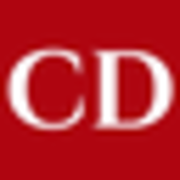
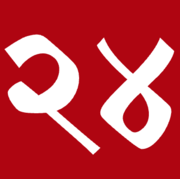
feat: config

diff --git a/src/app/categories/[slug]/page.tsx b/src/app/categories/[slug]/page.tsx
@@ -1,15 +1,15 @@
-import Image from "next/image";
-import Link from "next/link";
-import { Metadata } from "next";
-import {
-  getCategoryBySlug,
-  getArticlesByCategory,
-  getAllArticlesPaginated,
-} from "../../lib/api";
-import { Category, Article } from "../../types";
 import formatDate from "@/app/lib/transform-date";
 import { CalendarIcon, ClockIcon } from "@heroicons/react/24/outline";
 import { ChevronLeftIcon, ChevronRightIcon } from "@heroicons/react/24/solid";
+import { Metadata } from "next";
+import Image from "next/image";
+import Link from "next/link";
+import {
+  getAllArticlesPaginated,
+  getArticlesByCategory,
+  getCategoryBySlug,
+} from "../../lib/api";
+import { Category } from "../../types";
 
 type Props = {
   params: Promise<{ slug: string }>;
@@ -23,15 +23,13 @@ export async function generateMetadata({ params }: Props): Promise<Metadata> {
   // Special case for tajya-batmya
   if (slug === "tajya-batmya") {
     return {
-      title: "Marathi News - The Civic Diary",
-      description:
-        "Browse all the latest Marathi news articles on The Civic Diary.",
+      title: "Marathi News - Batmi24",
+      description: "Browse all the latest Marathi news articles on Batmi24.",
       keywords:
         "marathi news, articles, latest news, civic engagement, marathi",
       openGraph: {
-        title: "Marathi News - The Civic Diary",
-        description:
-          "Browse all the latest Marathi news articles on The Civic Diary.",
+        title: "Marathi News - Batmi24",
+        description: "Browse all the latest Marathi news articles on Batmi24.",
       },
     };
   }
@@ -40,22 +38,22 @@ export async function generateMetadata({ params }: Props): Promise<Metadata> {
 
   if (!category) {
     return {
-      title: "Category Not Found - The Civic Diary",
+      title: "Category Not Found - Batmi24",
       description: "The requested category could not be found.",
     };
   }
 
   return {
-    title: `${category.name} - The Civic Diary`,
+    title: `${category.name} - Batmi24`,
     description:
       category.description ||
-      `Browse all articles in the ${category.name} category on The Civic Diary.`,
+      `Browse all articles in the ${category.name} category on Batmi24.`,
     keywords: `${category.name.toLowerCase()}, articles, news, civic engagement, ${category.name.toLowerCase()} news`,
     openGraph: {
-      title: `${category.name} - The Civic Diary`,
+      title: `${category.name} - Batmi24`,
       description:
         category.description ||
-        `Browse all articles in the ${category.name} category on The Civic Diary.`,
+        `Browse all articles in the ${category.name} category on Batmi24.`,
     },
   };
 }

diff --git a/src/app/articles/[slug]/page.tsx b/src/app/articles/[slug]/page.tsx
@@ -1,13 +1,12 @@
-import Image from "next/image";
-import Link from "next/link";
-import { Metadata } from "next";
-import { getArticleBySlug, getArticles } from "../../lib/api";
-import { Article } from "../../types";
-import ArticleJsonLd from "../../components/ArticleJsonLd";
 import formatDate from "@/app/lib/transform-date";
 import { CalendarIcon, ClockIcon } from "@heroicons/react/24/outline";
-import ShareButtons from "../../components/ShareButtons";
+import { Metadata } from "next";
+import Link from "next/link";
 import ArticleImage from "../../components/ArticleImage";
+import ArticleJsonLd from "../../components/ArticleJsonLd";
+import ShareButtons from "../../components/ShareButtons";
+import { getArticleBySlug, getArticles } from "../../lib/api";
+import { Article } from "../../types";
 
 type Props = {
   params: Promise<{ slug: string }>;
@@ -20,13 +19,13 @@ export async function generateMetadata({ params }: Props): Promise<Metadata> {
 
   if (!article) {
     return {
-      title: "Article Not Found - The Civic Diary",
+      title: "Article Not Found - Batmi24",
       description: "The requested article could not be found.",
     };
   }
 
   return {
-    title: article.meta_title || `${article.title} - The Civic Diary`,
+    title: article.meta_title || `${article.title} - Batmi24`,
     description: article.meta_description || article.excerpt,
     keywords: article.category
       ? `${article.category.name.toLowerCase()}, ${article.title.toLowerCase()}, civic engagement, news, article`
@@ -85,7 +84,7 @@ export default async function ArticlePage({ params }: Props) {
     );
   }
 
-  const articleUrl = `https://thecivicdiary.com/articles/${article.slug}`;
+  const articleUrl = `https://batmi24.com/articles/${article.slug}`;
 
   return (
     <>
@@ -99,8 +98,8 @@ export default async function ArticlePage({ params }: Props) {
         )}
         <meta itemProp="datePublished" content={article.published_at} />
         <meta itemProp="dateModified" content={article.published_at} />
-        <meta itemProp="author" content="The Civic Diary" />
-        <meta itemProp="publisher" content="The Civic Diary" />
+        <meta itemProp="author" content="Batmi24" />
+        <meta itemProp="publisher" content="Batmi24" />
 
         <div className="mb-8">
           <nav

diff --git a/src/app/layout.tsx b/src/app/layout.tsx
@@ -13,27 +13,24 @@ export const viewport: Viewport = {
 };
 
 export const metadata: Metadata = {
-  metadataBase: new URL("https://thecivicdiary.com"),
-  title: "The Civic Diary - News and Articles",
+  metadataBase: new URL("https://batmi24.com"),
+  title: "Batmi24 - News and Articles",
   description:
     "Stay informed with the latest news, insights, and articles on civic matters and community initiatives.",
   keywords: "news, articles, civic engagement, community, journalism",
-  authors: [{ name: "The Civic Diary Team" }],
+  authors: [{ name: "Batmi24 Team" }],
   robots: "index, follow",
   icons: {
-    icon: [
-      { url: "/icon.png" },
-      { url: "/brand/the-civic-diary-small-red.jpeg" },
-    ],
+    icon: [{ url: "/icon.png" }, { url: "/brand/batmi-24-square-red.png" }],
     apple: "/apple-icon.png",
     shortcut: "/icon.png",
   },
   openGraph: {
     type: "website",
     locale: "en_US",
-    url: "https://thecivicdiary.com",
-    siteName: "The Civic Diary",
-    title: "The Civic Diary - Talks Straight, No Filler, Just Facts",
+    url: "https://batmi24.com",
+    siteName: "Batmi24",
+    title: "Batmi24 - Talks Straight, No Filler, Just Facts",
     description:
       "Stay informed with the latest news, insights, and articles on civic matters and community initiatives.",
     images: [
@@ -41,13 +38,13 @@ export const metadata: Metadata = {
         url: "/og-image.jpg",
         width: 1200,
         height: 630,
-        alt: "The Civic Diary",
+        alt: "Batmi24",
       },
     ],
   },
   twitter: {
     card: "summary_large_image",
-    title: "The Civic Diary - Talks Straight, No Filler, Just Facts",
+    title: "Batmi24 - Talks Straight, No Filler, Just Facts",
     description:
       "Stay informed with the latest news, insights, and articles on civic matters and community initiatives.",
     images: ["/twitter-image.jpg"],

diff --git a/src/app/components/Footer.tsx b/src/app/components/Footer.tsx
@@ -11,22 +11,22 @@ export default async function Footer() {
       <div className="container mx-auto px-4">
         <div className="grid grid-cols-1 md:grid-cols-2 lg:grid-cols-4 gap-8">
           <div>
-            <div className="mb-4">
+            <div className="">
               <Image
-                src="/brand/the-civic-diary-long-white.jpeg"
-                alt="The Civic Diary"
+                src="/brand/batmi-24-long-white.png"
+                alt="Batmi24"
                 width={200}
                 height={60}
-                className="object-contain rounded-lg"
+                className="object-contain rounded-lg bg-white"
+                style={{ padding: "1rem" }}
               />
             </div>
-            <p className="text-sm mb-4">
+            <p className="text-sm mb-4 py-2">
               Delivering insightful news and articles on civic matters and
               community initiatives.
             </p>
             <p>
-              &copy; {new Date().getFullYear()} The Civic Diary. All rights
-              reserved.
+              &copy; {new Date().getFullYear()} Batmi24. All rights reserved.
             </p>
           </div>
           <div>

diff --git a/src/app/components/Header.tsx b/src/app/components/Header.tsx
@@ -22,11 +22,18 @@ async function Header() {
       <div className="bg-white py-4">
         <div className="max-w-[1200px] mx-auto px-4">
           <div className="flex justify-center">
-            <Link href="/">
+            <Link
+              href="/"
+              style={{
+                backgroundColor: "#af0000",
+                padding: "1rem 1rem",
+                borderRadius: "0.5rem",
+              }}
+            >
               <Image
-                src="/brand/the-civic-diary-long-red.jpeg"
-                alt="The Civic Diary"
-                width={650}
+                src="/brand/batmi-24-long-red.png"
+                alt="Batmi24"
+                width={320}
                 height={130}
                 className="h-auto rounded-lg"
                 priority

diff --git a/src/app/sitemap.ts b/src/app/sitemap.ts
@@ -2,7 +2,7 @@ import { MetadataRoute } from "next";
 import { getArticles, getCategories } from "./lib/api";
 
 export default async function sitemap(): Promise<MetadataRoute.Sitemap> {
-  const baseUrl = "https://thecivicdiary.com";
+  const baseUrl = "https://batmi24.com";
 
   // Get all articles and categories
   const articles = await getArticles();
@@ -11,7 +11,7 @@ export default async function sitemap(): Promise<MetadataRoute.Sitemap> {
   // Create article URLs
   const articleUrls = articles.map((article) => ({
     url: `${baseUrl}/articles/${article.slug}`,
-    lastModified: new Date(article.updated_at || article.published_at),
+    lastModified: new Date(article.published_at),
     changeFrequency: "weekly" as const,
     priority: 0.8,
   }));

diff --git a/src/app/components/LatestNews.tsx b/src/app/components/LatestNews.tsx
@@ -1,7 +1,6 @@
-import { supabase } from "../lib/supabase";
-import Link from "next/link";
-import Image from "next/image";
 import { BoltIcon } from "@heroicons/react/24/solid";
+import Link from "next/link";
+import { supabase } from "../lib/supabase";
 import ArticleImage from "./ArticleImage";
 
 type NewsItem = {
@@ -67,7 +66,7 @@ async function LatestNews() {
 
         {/* Column 2 - Secondary content (4 cols) */}
         <div className="md:col-span-4 flex flex-col gap-4">
-          {news.slice(1, 7).map((item, index) => (
+          {news.slice(1, 7).map((item) => (
             <div key={item.id} className="border-b border-gray-200 pb-4">
               <div className="block">
                 {item.category && item.category_slug && (

diff --git a/src/app/components/ArticleImage.tsx b/src/app/components/ArticleImage.tsx
@@ -21,11 +21,11 @@ const ArticleImage = ({ imageUrl, title, height = 350 }: ArticleImageProps) => {
         <div className="absolute top-0 left-0 bg-[#af0000] text-white h-full w-full text-sm px-2 py-1 rounded-lg">
           <div className="flex h-full flex-col justify-between items-center py-4">
             <Image
-              src={"/brand/the-civic-diary-long-white.jpeg"}
+              src={"/brand/batmi-24-long-white.png"}
               alt={title}
               width={350}
               height={200}
-              className="rounded-lg object-contain my-2"
+              className="rounded-lg object-contain my-2 py-2 bg-white px-2"
             />
             <div>
               <p className="text-lg font-bold">{title}</p>

diff --git a/src/app/components/ArticleJsonLd.tsx b/src/app/components/ArticleJsonLd.tsx
@@ -17,15 +17,15 @@ export default function ArticleJsonLd({ article, url }: ArticleJsonLdProps) {
     dateModified: article.published_at || article.published_at,
     author: {
       "@type": "Organization",
-      name: "The Civic Diary",
-      url: "https://thecivicdiary.com",
+      name: "Batmi24",
+      url: "https://batmi24.com",
     },
     publisher: {
       "@type": "Organization",
-      name: "The Civic Diary",
+      name: "Batmi24",
       logo: {
         "@type": "ImageObject",
-        url: "https://thecivicdiary.com/logo.png",
+        url: "https://batmi24.com/logo.png",
       },
     },
     mainEntityOfPage: {

diff --git a/src/app/page.tsx b/src/app/page.tsx
@@ -5,7 +5,7 @@ import { getCategories } from "./lib/api";
 import { Category } from "./types";
 
 export const metadata: Metadata = {
-  title: "The Civic Diary - Latest News and Articles",
+  title: "Batmi24 - Latest News and Articles",
   description:
     "Stay informed with the latest news, insights, and articles on civic matters and community initiatives.",
   keywords:

diff --git a/src/app/robots.ts b/src/app/robots.ts
@@ -7,6 +7,6 @@ export default function robots(): MetadataRoute.Robots {
       allow: "/",
       disallow: ["/api/", "/admin/"],
     },
-    sitemap: "https://thecivicdiary.com/sitemap.xml",
+    sitemap: "https://batmi24.com/sitemap.xml",
   };
 }

diff --git a/README.md b/README.md
@@ -1,4 +1,4 @@
-# The Civic Diary - SEO-Optimized Next.js Website
+# Batmi24 - SEO-Optimized Next.js Website
 
 A fully SEO-optimized Next.js website application for news and articles focused on civic matters and community initiatives.
 
